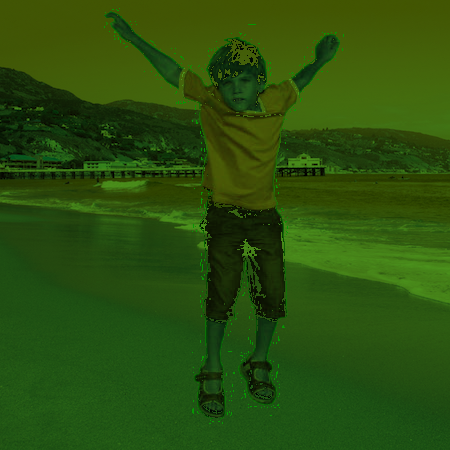
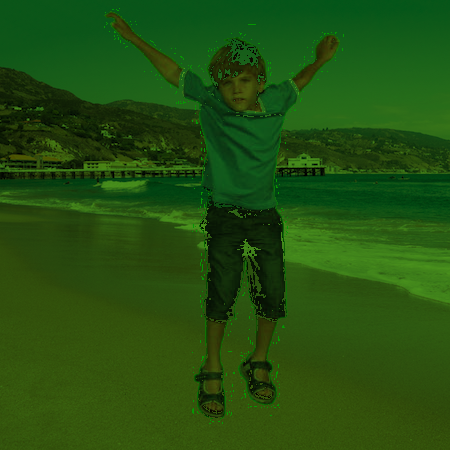
minor changes

diff --git a/pillowExercise/main.py b/pillowExercise/main.py
@@ -39,8 +39,8 @@ def convertToGrayScale(img, img2):
     for i in range(width):
         for j in range(height):
             xy = (i,j)
-            img2.putpixel(xy,(int(img[i,j][2] * 0.2988),int(img[i,j][1] * 0.5870),int(img[i,j][0]*0.1140)))
-           
+            img2.putpixel(xy,(int(img[i,j][0] * 0.2988),int(img[i,j][1] * 0.5870),int(img[i,j][2]*0.1140)))
+            print(int(img[i,j][0] * 0.2988),int(img[i,j][1] * 0.5870),int(img[i,j][2]*0.1140))
 
 
 #TODO: function to calculate percentage of each color in mm.jpg
@@ -159,19 +159,19 @@ def calculatePercentage(img):
 
 #function call to get resulting image
 
-# combineImages(imageKidGreen, image_beach)
-# imageOutput.save("output.png","png")
+combineImages(imageKidGreen, image_beach)
+imageOutput.save("output.png","png")
 
-# image_combined = Image.open("output.png").load()
-# imageOutput2 = Image.open("kid-green.jpg")
-# convertToGrayScale(image_combined,imageOutput2)
-# imageOutput2.save("gray.png","png")
+image_combined = Image.open("output.png").load()
+imageOutput2 = Image.open("kid-green.jpg")
+convertToGrayScale(image_combined,imageOutput2)
+imageOutput2.save("gray.png","png")
 
-mmImg = Image.open("mm.jpg").load()
-imageOutput3 = Image.open("kid-green.jpg")
+# mmImg = Image.open("mm.jpg").load()
+# imageOutput3 = Image.open("kid-green.jpg")
 
-width_mm = imageOutput3.width
-height_mm = imageOutput3.height
+# width_mm = imageOutput3.width
+# height_mm = imageOutput3.height
 # print(width_mm, height_mm)
 
-calculatePercentage(mmImg)
+# calculatePercentage(mmImg)

diff --git a/sort_search/sort_search.py b/sort_search/sort_search.py
@@ -29,11 +29,13 @@ result = linearSearch(arr, 54)
        target'''
 
 sortedArr = sorted(arr)
-#print(sortedArr)
+print(sortedArr)
 #mid = len(sortedArr) // 2
 
-#TODO: sort algorithms
 
+
+
+#TODO: sort algorithms
 '''Selection Sort: find min in the given array, put it in a new array.
     then, keep finding the min in input array and append it to the resule 
     array. until finish'''

diff --git a/q4.py b/q4.py
@@ -1,0 +1,9 @@
+number = 1
+
+def my(number):
+
+    print(number += 1)
+    return number
+
+
+number  = my(number)
